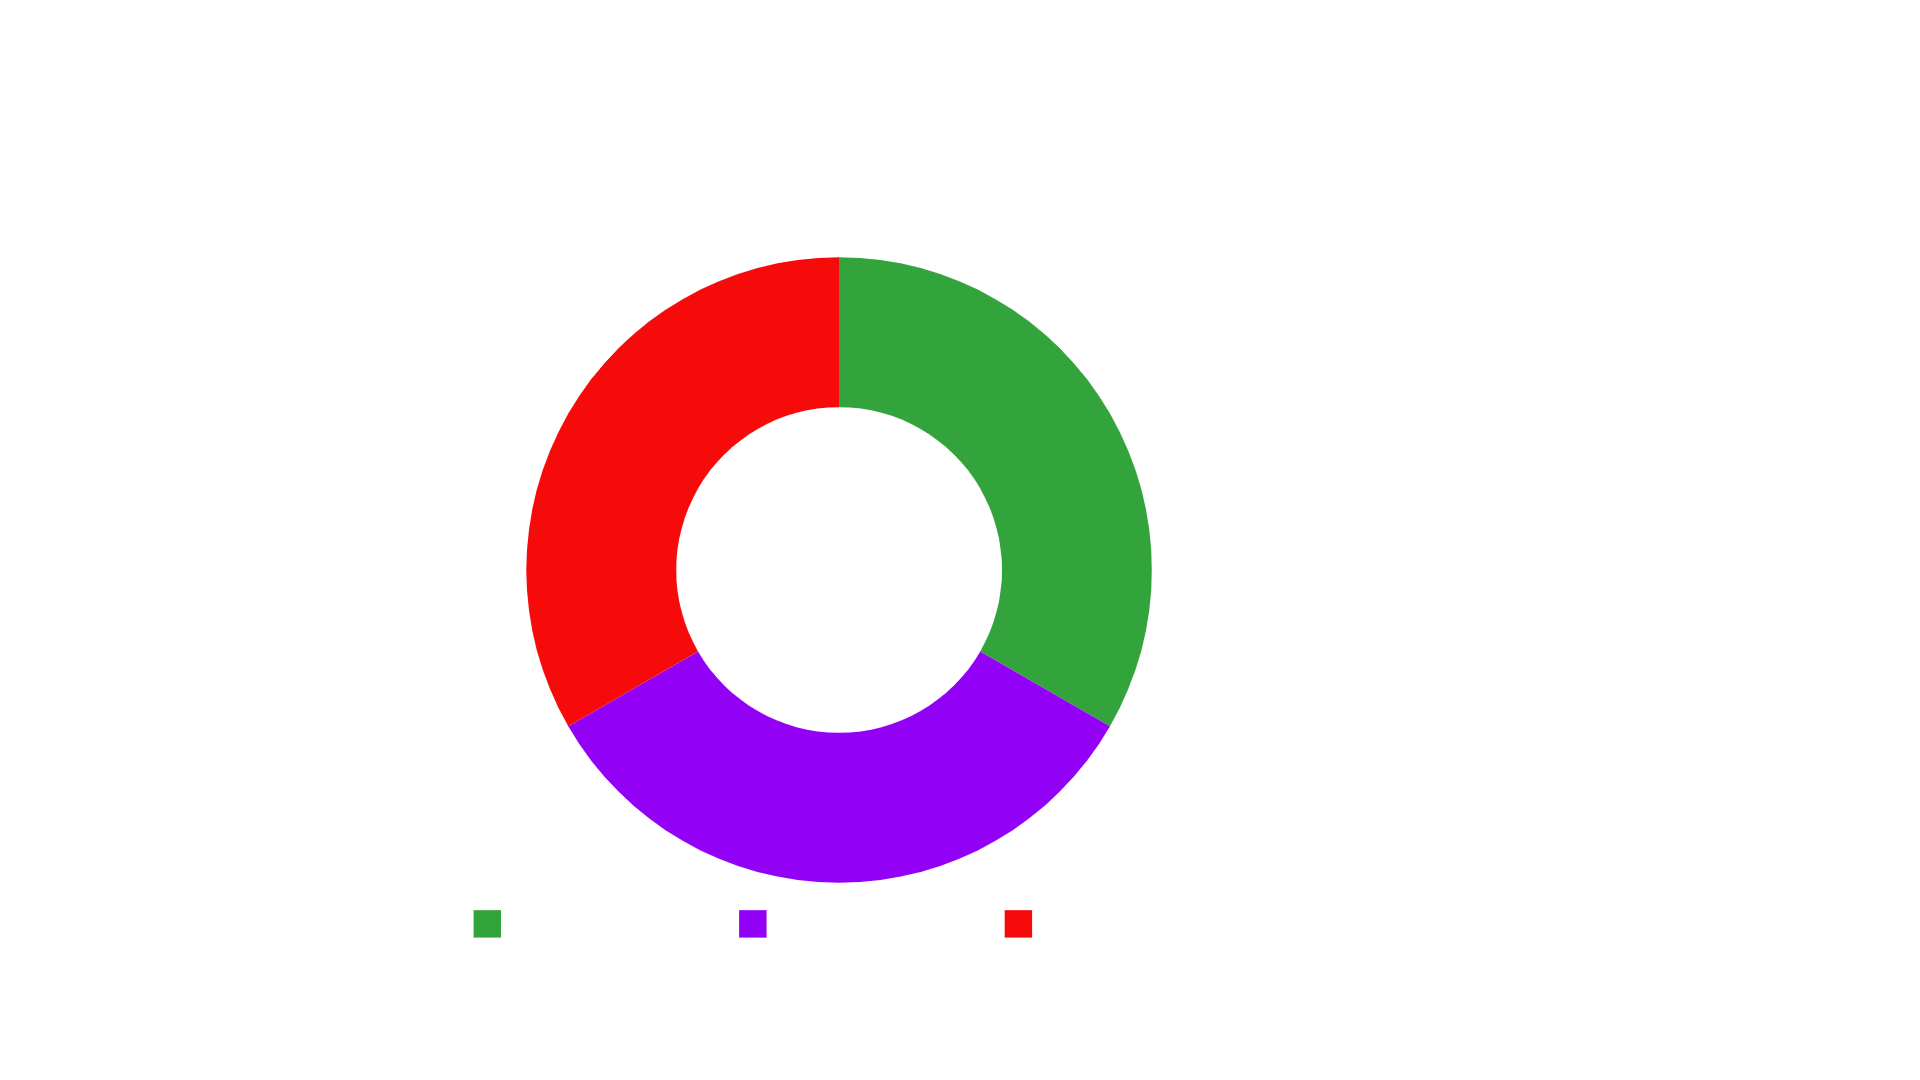
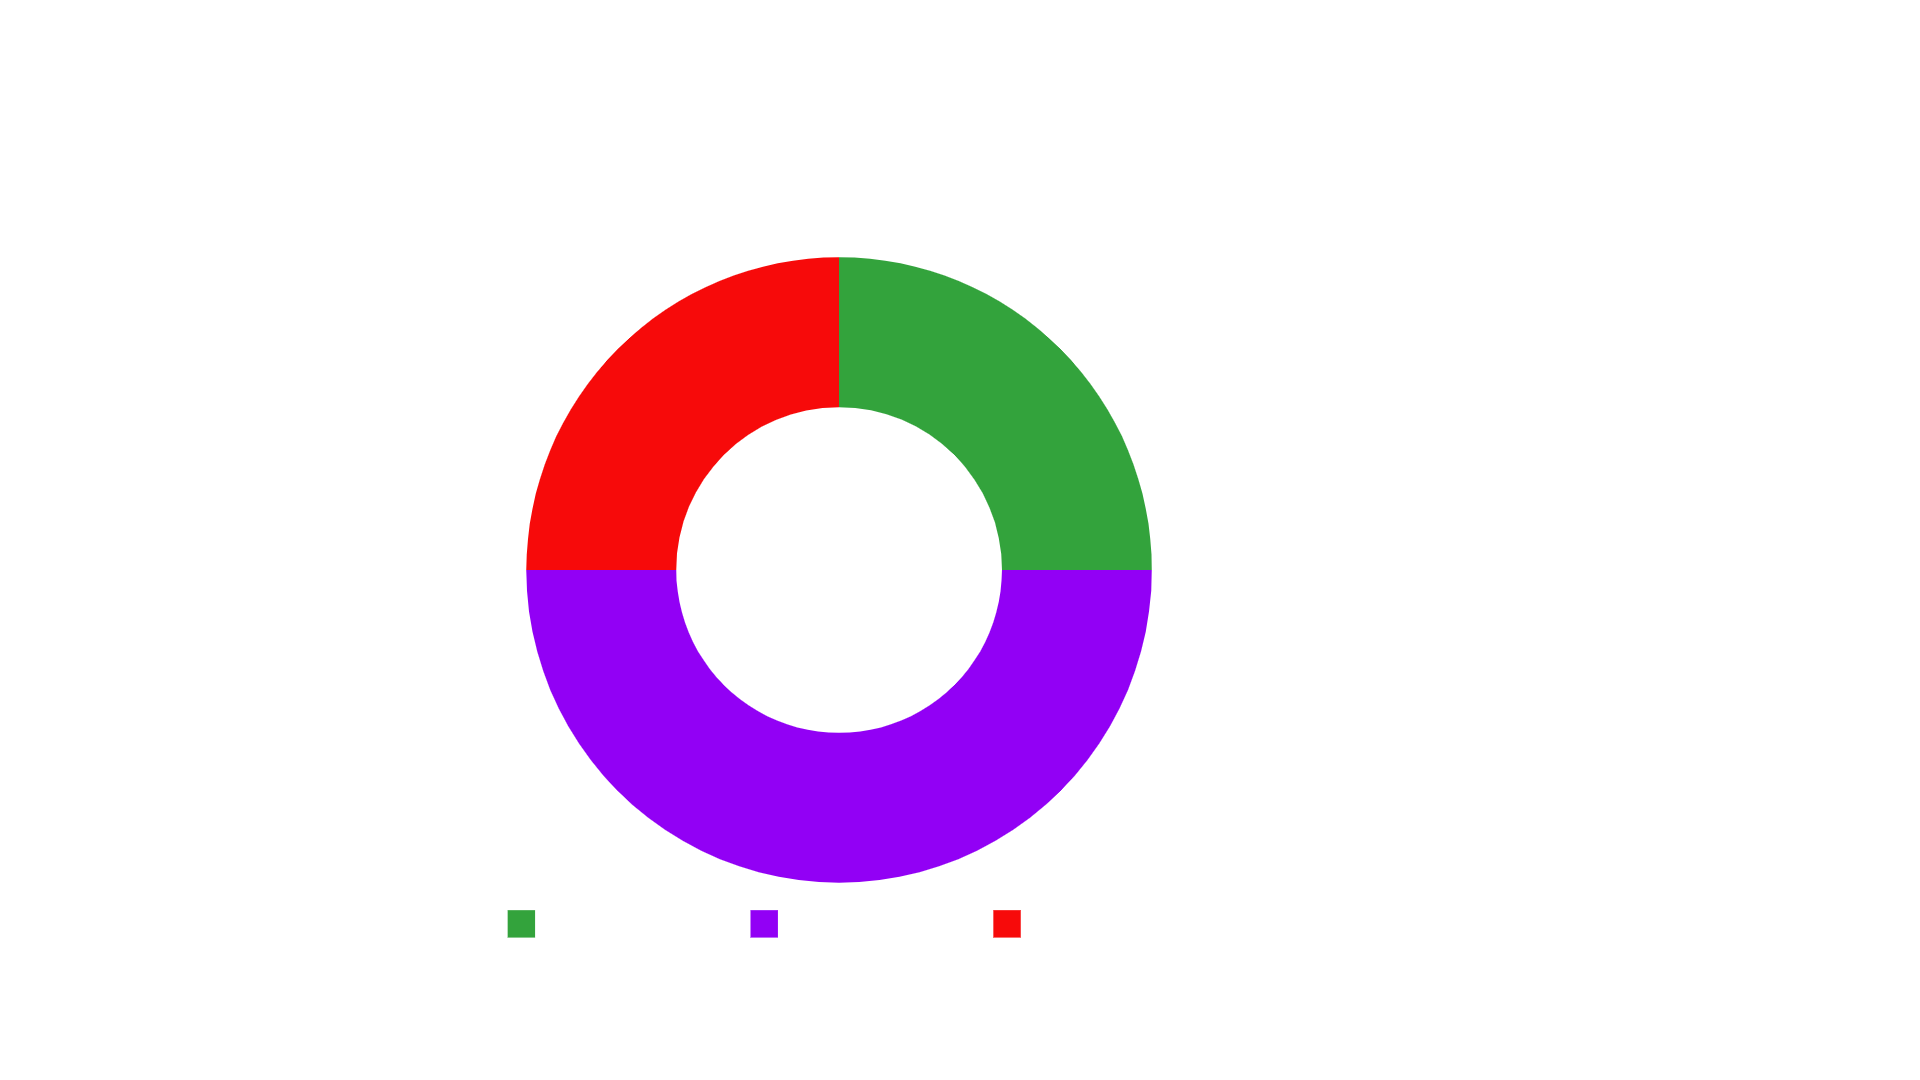
updated README.md

diff --git a/README.md b/README.md
@@ -24,7 +24,7 @@ leetcode-solutions/
 | Difficulty | Solved |
 | ---------- | ------ |
 | Easy       | 01     |
-| Medium     | 01     |
+| Medium     | 02     |
 | Hard       | 01     |
 
 # Progress Chart
